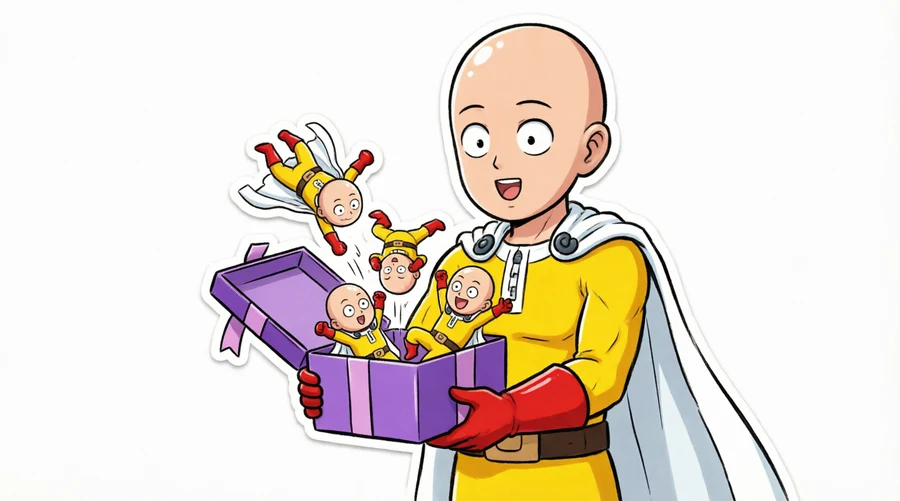
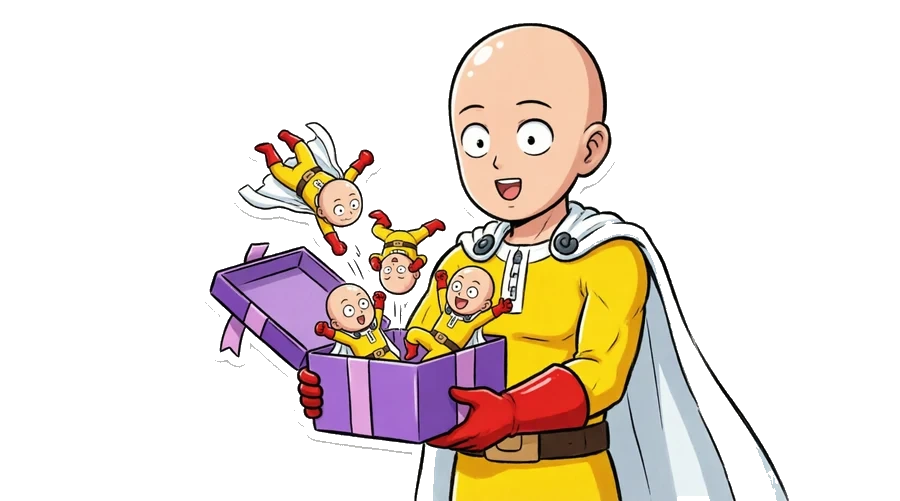
S28: белый фон у Сайтамы вырезан, веер только у золотой, рамка мягкая
У mascot-collections.webp и mascot-support.webp белый фон был зашит в файл — прозрачности нет, CSS тут не поможет. Вырезан заливкой от краёв по связным белым пикселям (не порогом по кадру: одежда Сайтамы светлая), плюс второй проход снимает светлый ореол сглаживания. Инструмент оставлен в scripts/cut-white-bg.mjs, идемпотентный, откат — из гита.

Рамка веера: 4 px чисто белая → 2 px rgba(255,255,255,.2). Белое кольцо спорило с тёмной карточкой.

Веер был на всех пяти подборках (25 картинок) — оставлен только у золотой, как требует дизайн.md; у остальных список игр с яйцами.

diff --git a/src/pages/CollectionsPage.jsx b/src/pages/CollectionsPage.jsx
@@ -75,14 +75,17 @@ export function CollectionsPage() {
                   {c.description}
                 </p>
               )}
-              <div className="mt-4">
-                <CoverFan
-                  games={c.games
-                    .map((g) => byTitle.get(String(g.name).toLowerCase()))
-                    .filter(Boolean)}
-                  size={golden ? 48 : 40}
-                />
-              </div>
+              {/* Веер — только у золотой подборки: так требует дизайн.md
+                  («веер есть только на золотой подборке»). У остальных список игр. */}
+              {golden && (
+                <div className="mt-4">
+                  <CoverFan
+                    games={c.games
+                      .map((g) => byTitle.get(String(g.name).toLowerCase()))
+                      .filter(Boolean)}
+                  />
+                </div>
+              )}
               <ul className="mt-3 space-y-1.5 text-sm text-ink-dim">
                 {c.games.slice(0, 4).map((g, i) => {
                   const match = byTitle.get(String(g.name).toLowerCase());

diff --git a/src/index.css b/src/index.css
@@ -133,7 +133,7 @@
     height: 108px;
   }
   .fan-img {
-    @apply absolute rounded-btn border-4 border-white object-cover shadow-card transition-[transform,left] duration-300;
+    @apply absolute rounded-btn border-2 border-white/20 object-cover shadow-card transition-[transform,left] duration-300;
     width: 76px;
     height: 100px;
     left: calc(var(--i) * 26px);
